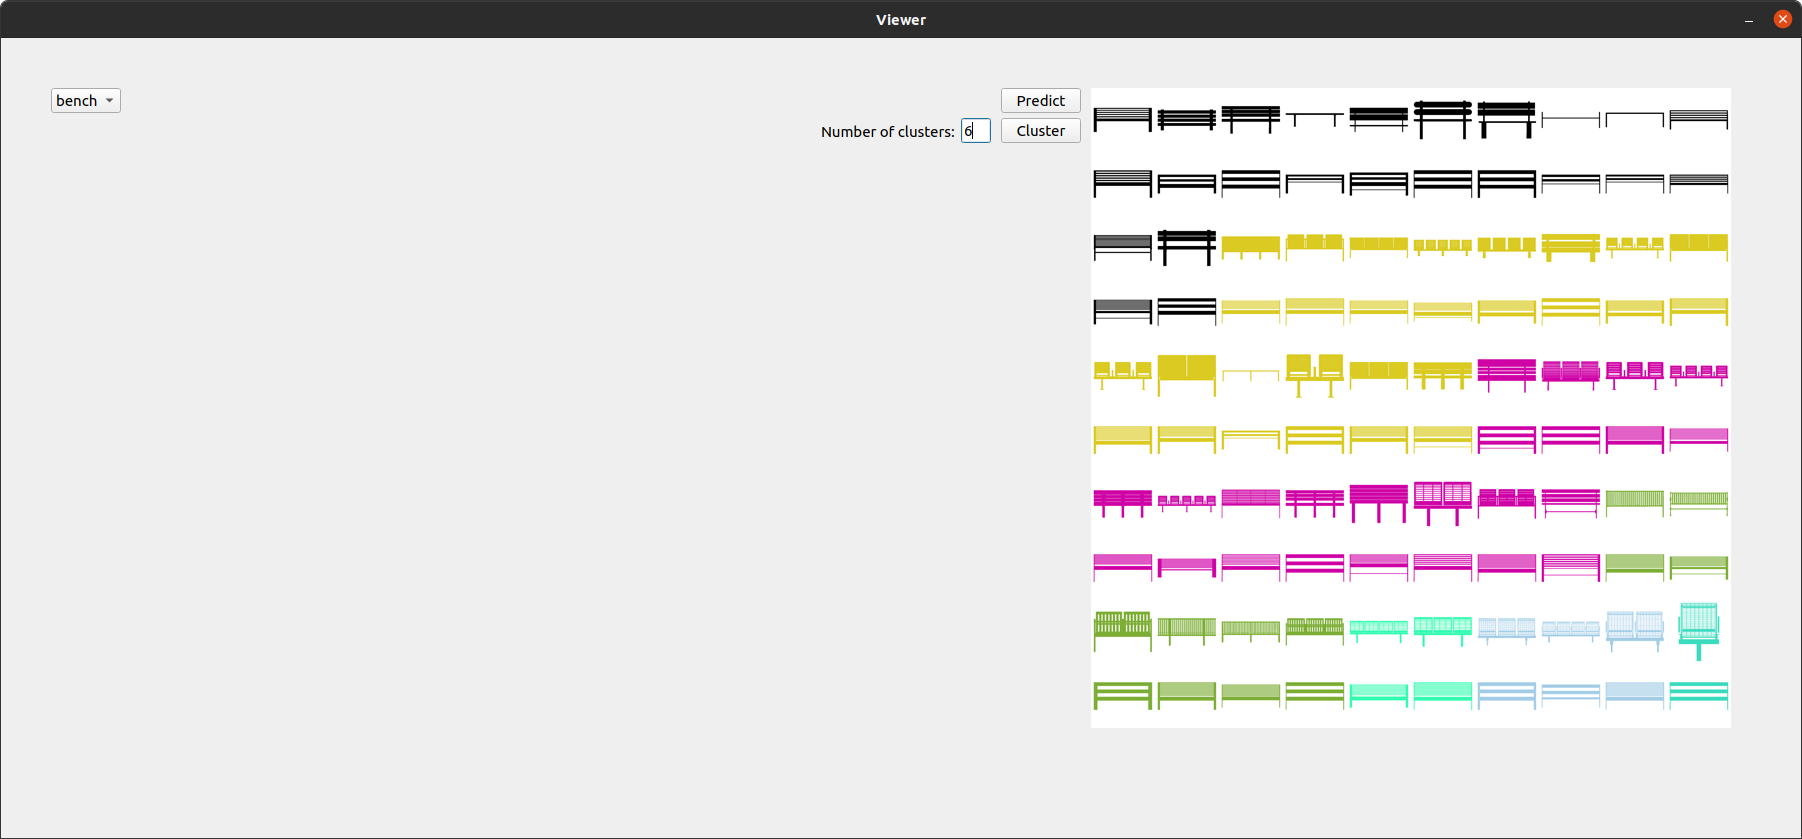
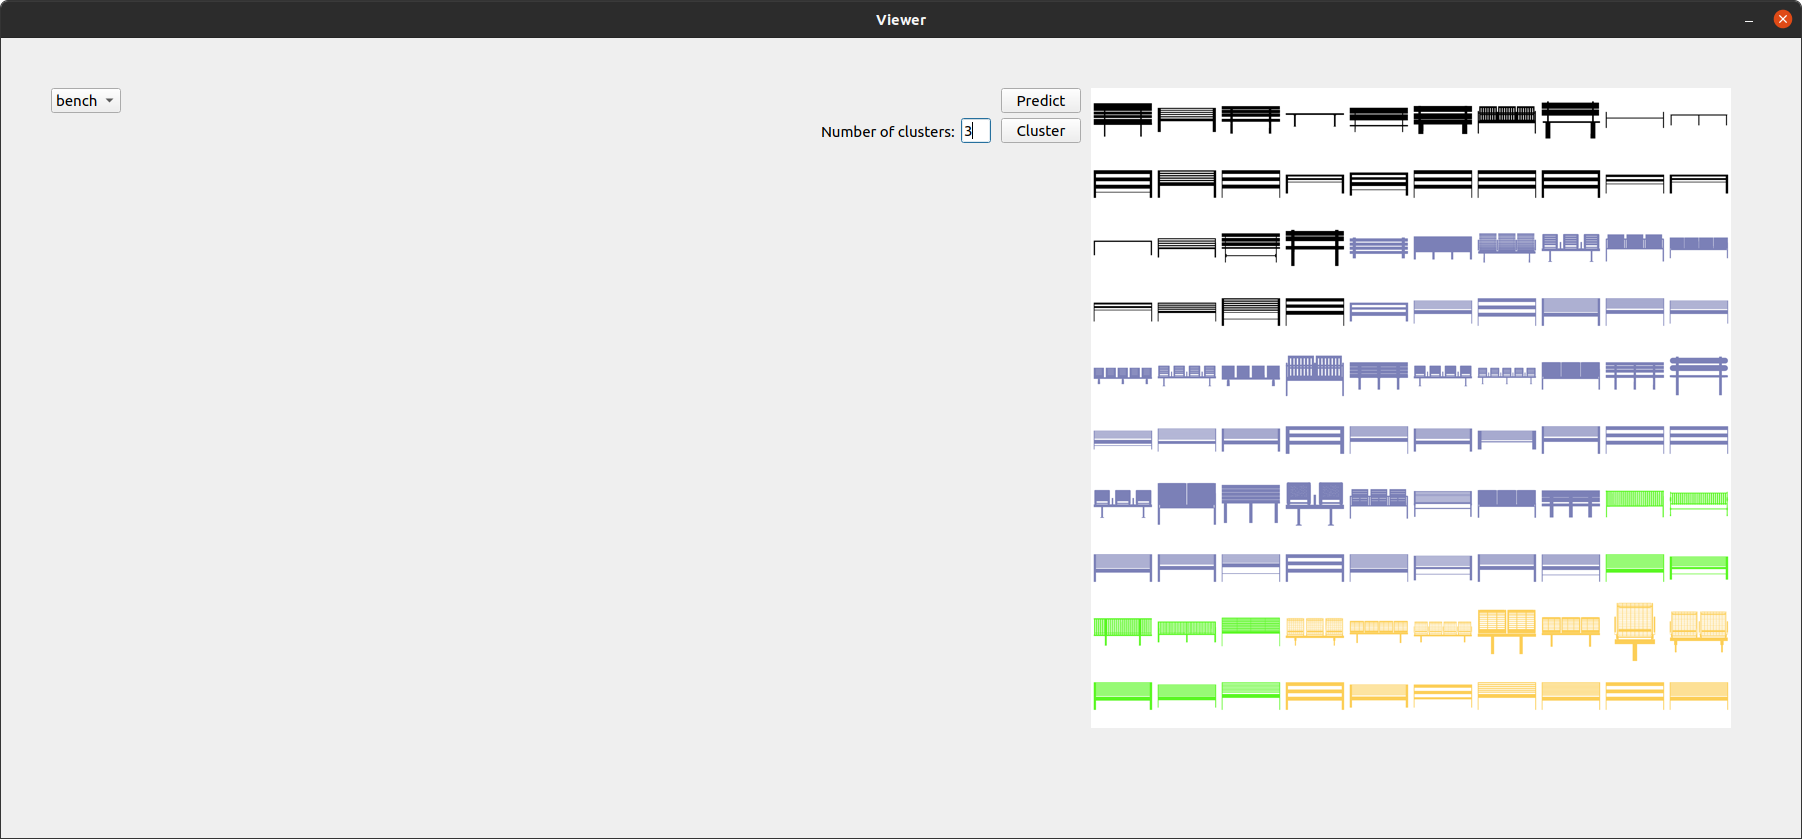
Error corrected in readme

diff --git a/readme.md b/readme.md
@@ -23,7 +23,7 @@ In order to run the program, navigate to the root directory of the downloaded re
 Running the program opens the user interface which you can interact with.
 ![](./assets/interface.png)
 There are two classes of shapes in this study; bench and chair. The bench class serves as an example you can use as reference while you create procedural model for the chair class. You can switch between the bench class and the chair class using the drop-down menu in the top left corner. On the right-hand side of the interface, there is a summary panel where you can see thumbnails of all the shapes from the selected class, arranged in 5 rows. There are a total of 50 shapes in each class. For the bench class, a basic set of rules is already defined and a predictive model is developed that can predict the parameters for each shape in the class. Based on the rules and the predicted parameters, the shapes are reconstructed which are shown underneath each shape. The assistive tool also identifies which shapes are predicted well (resemble the original shapes closely, shown in black color) and clusters the other shapes into groups of similar shapes (shown in different colors). The clusters can help you find similar shapes more quickly and develop the rules faster.  
-You can click on any shape from the summary pane and see the enlarged images on the left-hand side of the interface. This helps you do a side by side comparison between the original shape and the procedural shape and inspect how closely they resemble each other. You can edit the code while the interface is running and see the results of your work by clicking the predict button. You can also change the number of clusters (default is 6) by entering the new number in the input box and clicking cluster.
+You can click on any shape from the summary pane and see the enlarged images on the left-hand side of the interface. This helps you do a side by side comparison between the original shape and the procedural shape and inspect how closely they resemble each other. You can edit the code while the interface is running and see the results of your work by clicking the predict button. You can also change the number of clusters (default is 3) by entering the new number in the input box and clicking cluster.
 ![](./assets/interface_with_detail.png)
 
 # Creating the procedural model
